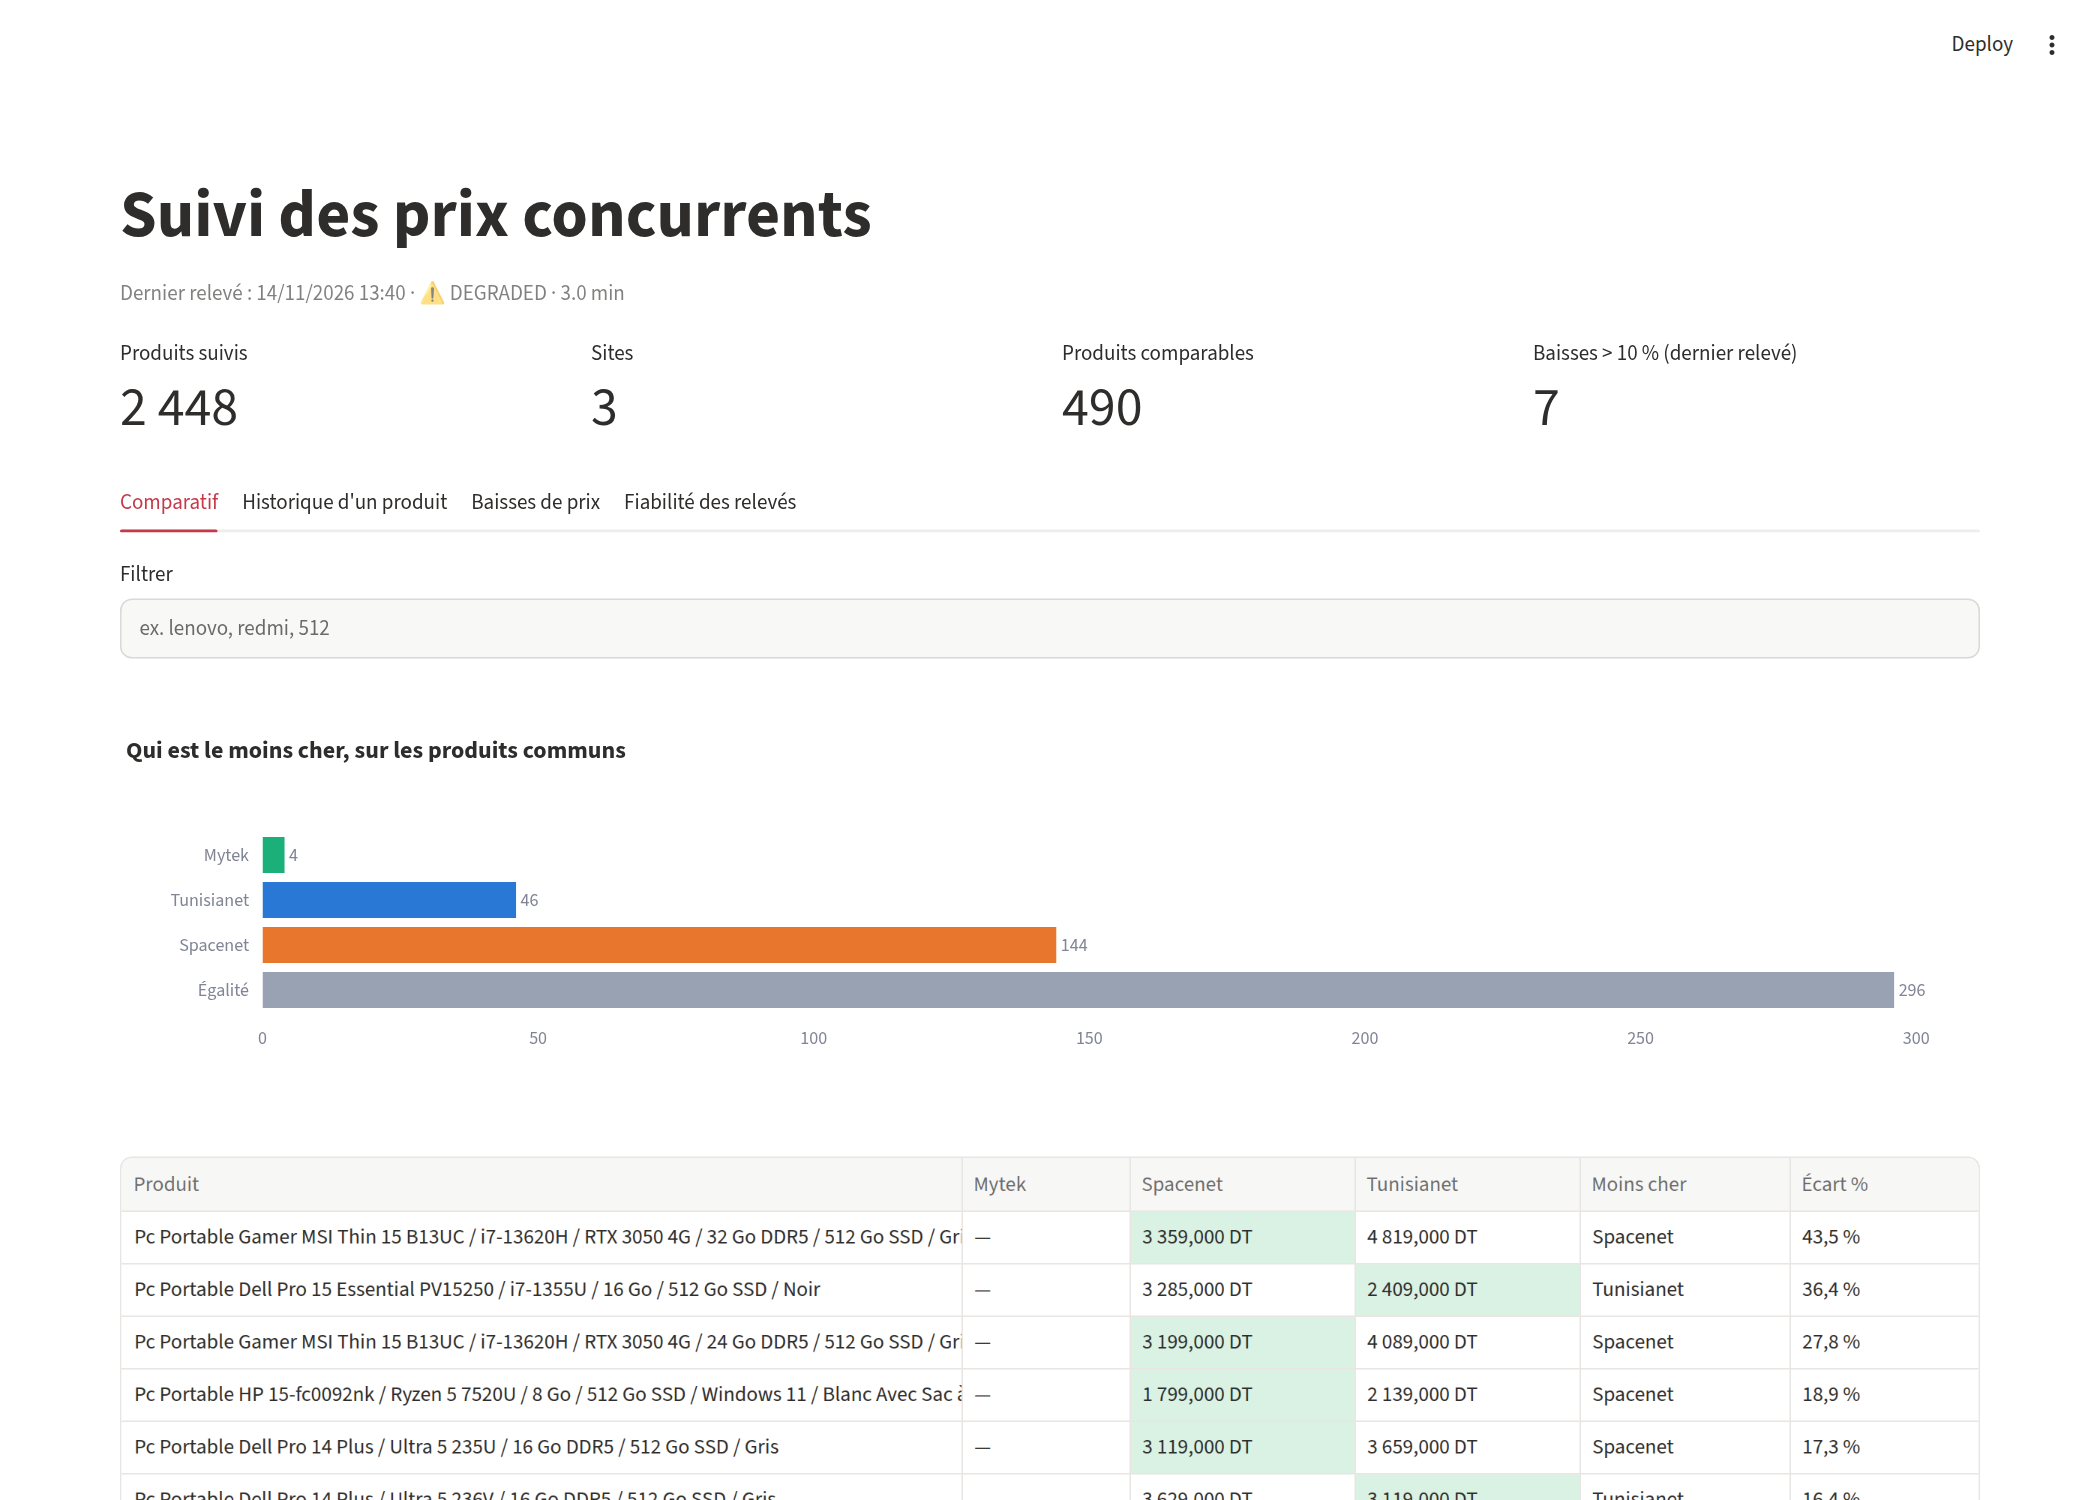
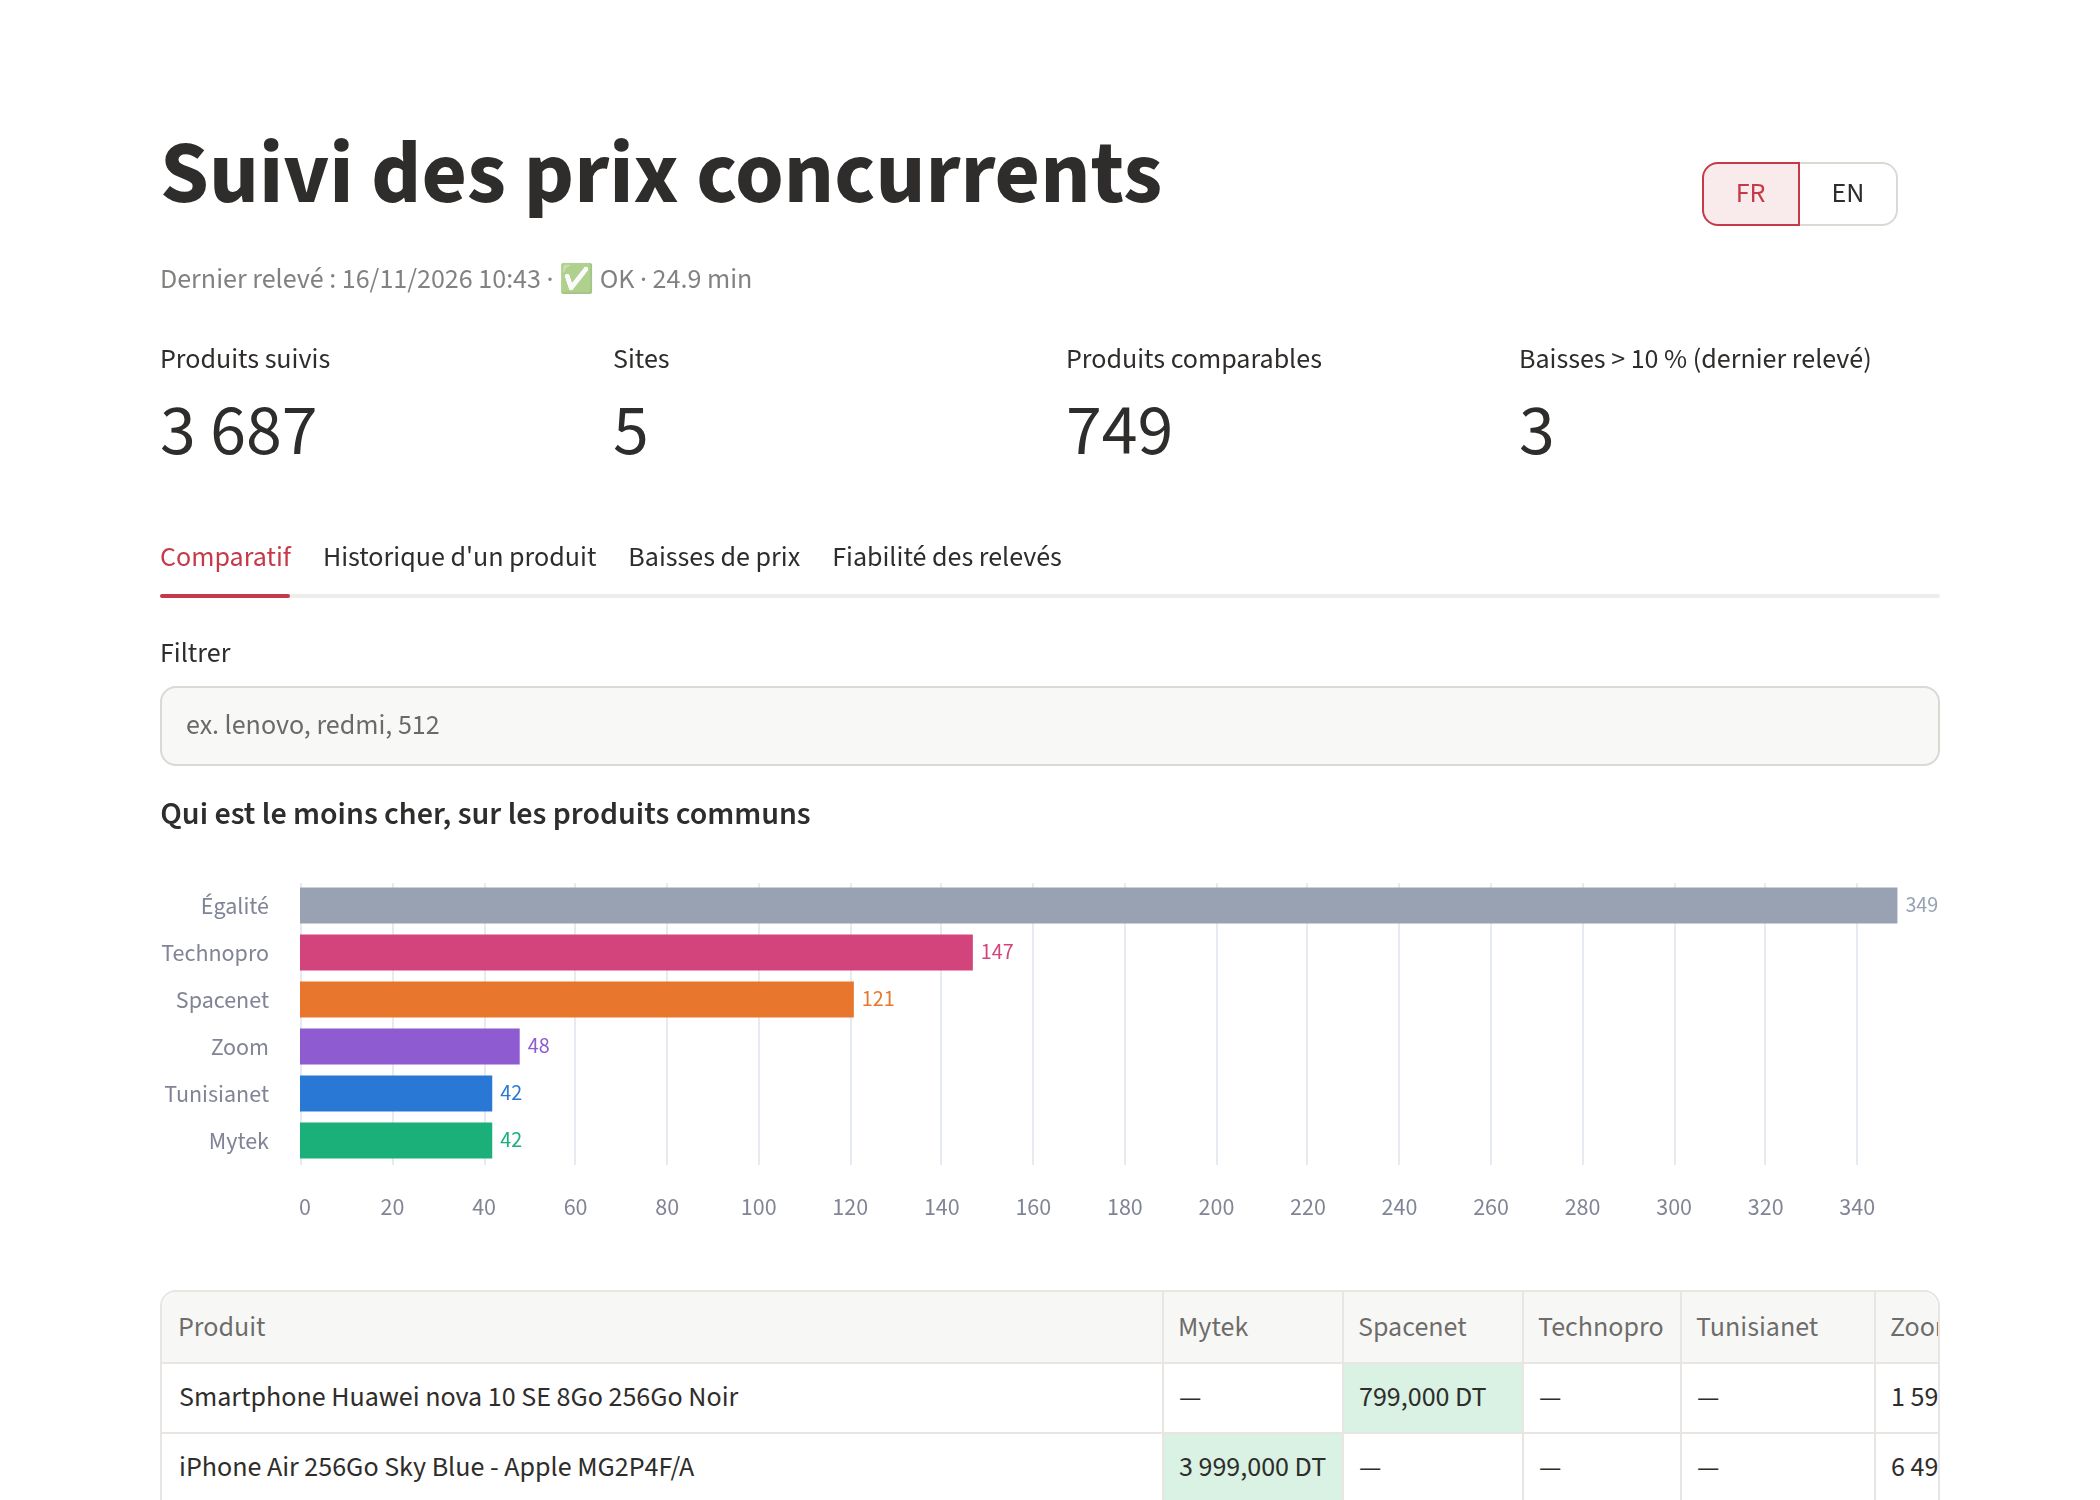
README screenshots from run #9: 5 shops, first OK run

diff --git a/README.md b/README.md
@@ -52,7 +52,7 @@ Measured on the run of **16 Nov 2026** (laptops + smartphones, 5 shops, 0 errors
 | | |
 | --- | --- |
 | 🛒 **Products tracked** | **3,687** · Spacenet 1,249 · Tunisianet 1,152 · Zoom 522 · Mytek 494 · Technopro 270 |
-| 🔗 **Same product on 2+ shops** | **750**, about half by manufacturer reference, the rest by name + specs |
+| 🔗 **Same product on 2+ shops** | **749**, about half by manufacturer reference, the rest by name + specs |
 | 📉 **Price drops caught (> 10 %)** | **10** in the first week (largest −18.1 %), e.g. the Galaxy S26 Ultra went from 5,999 to 5,399 DT on one shop, undercutting the other |
 | ⏱ **Run time** | **4 shops in ~4 minutes**, in parallel; the 5th (Mytek) is paced on purpose at one page every 90 s to respect its limits. Report ready by 07:55 |
 | 🧪 **Tests** | **50**, on hand-written HTML (no copies of the sites) |
